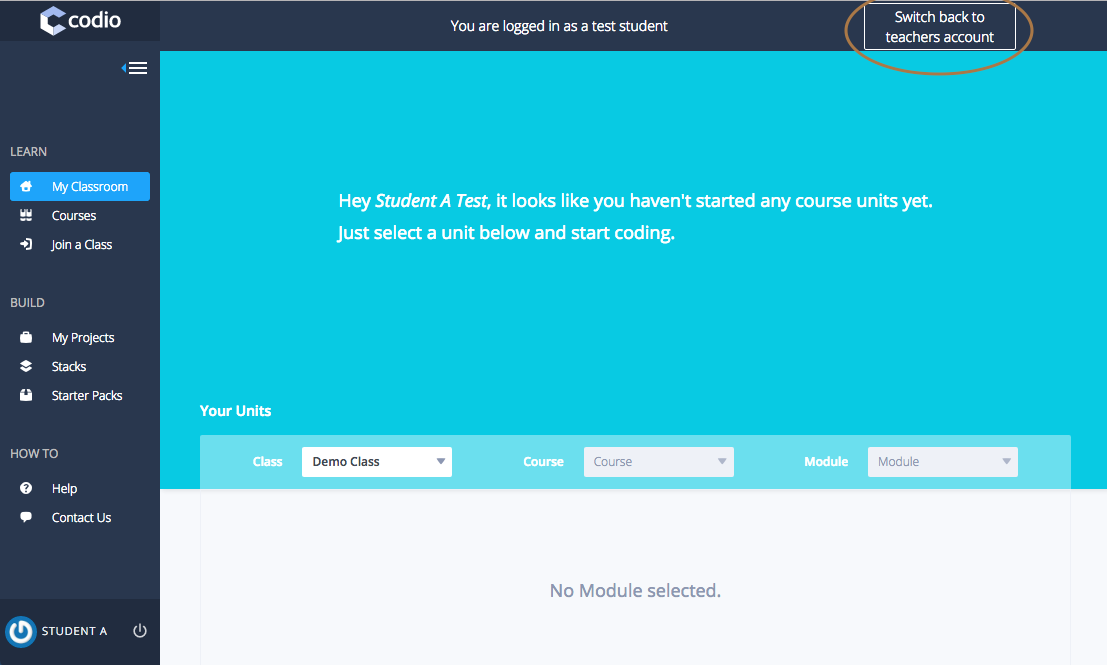
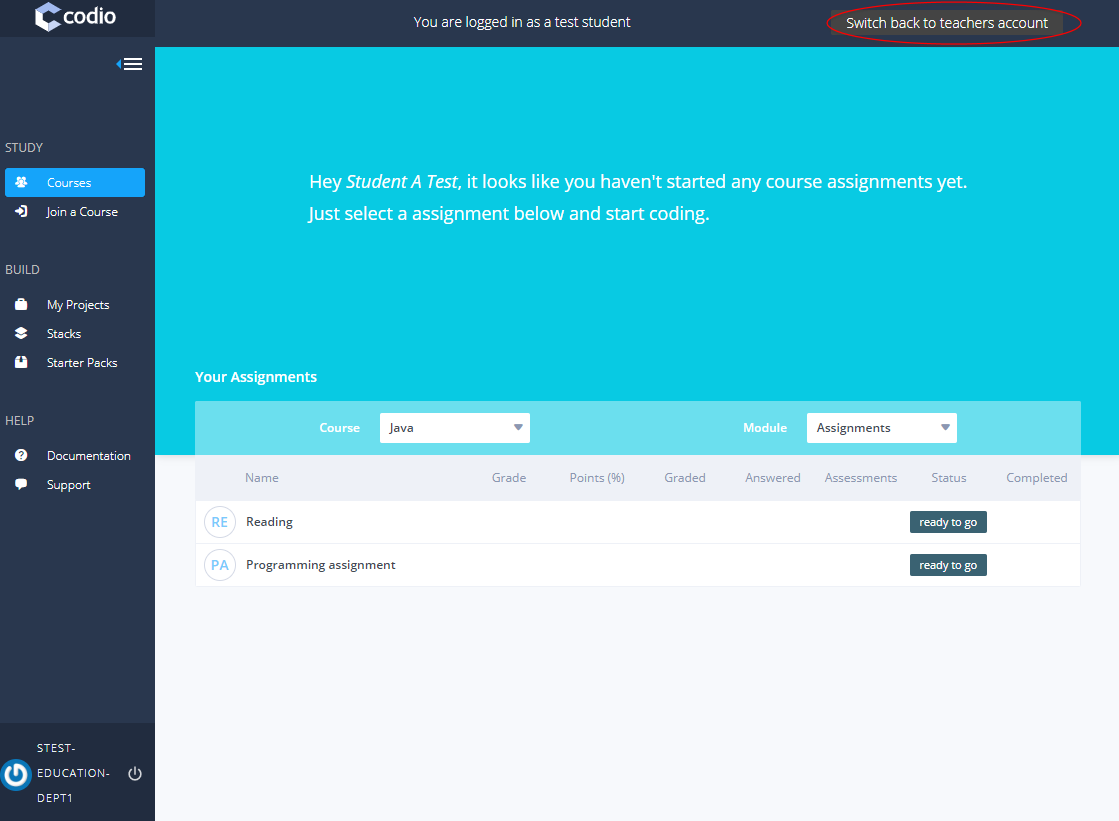
update to 6.5

diff --git a/.guides/content/Inviting-real-students-9e07.md b/.guides/content/Inviting-real-students-9e07.md
@@ -1,17 +1,17 @@
-Here we explain how to add an existing student to a class or create new students and add them to the class.
+Here we explain how to add an existing student to a course or create new students and add them to the course.
 
 If you just want to test the student experience, then we recommend you read the previous page as it is far easier and quicker. 
 
-## The class invite URL
-The class invite url is a url that you can pass to students for joining a class and signing up if not already signed up.
+## The course invite URL
+The course invite url is a url that you can pass to students for joining a course and signing up if not already signed up.
 
-- Select the class.
+- Select the course.
 - Select the **Admin** tab. 
-- Look for **Class Invite URL** and copy the url to the clipboard.
+- Look for **Course Invite URL** and copy the url to the clipboard.
 - You can now use this url directly (read below), send it out to people via email or put it in a web page.
 
 ## LMS Features
-If you are using an LMS platform for real classes, then we suggest you try out the LMS features later, not while onboarding with Codio. You will find an LMS section later in this guide.
+If you are using an LMS platform for real courses, then we suggest you try out the LMS features later, not while onboarding with Codio. You will find an LMS section later in this guide.
 
 ## Trying out real student accounts
 We would not recommend you do this at this stage. If you really want to, then please be aware of the following.
@@ -19,17 +19,17 @@ We would not recommend you do this at this stage. If you really want to, then pl
 - You cannot be logged in as more than one Codio user in a browser. The last login will prevail.
 - You can work around this restriction by opening an incognito/private window or open a different browser type.
 - Go to `codio.com` and make sure you are not signed in as a user. If you are then sign out.
-- Paste in the class invite url you copied to the clipboard earlier.
-- If you want to add an existing student to the class then supply that student's details ...
+- Paste in the course invite url you copied to the clipboard earlier.
+- If you want to add an existing student to the course then supply that student's details ...
 - ... or if you want to create a new student then supply a new email address using the email address approach described below.
 
 
 ## Signed in as a student
-Once you are signed in as a student, you should see a screen like the one below. If this student is a member of more than one class, you may need to change the **Class** dropdown.
+Once you are signed in as a student, you should see a screen like the one below. If this student is a member of more than one course, you may need to change the **course** dropdown.
 
 ![](.guides/img/joined-class.png)
 
 ## Check the students
-Once you have added students to the class, you should check your faculty/teacher classroom view. Return to the class screen and reload the browser page. If you click on the Students tab, you should see the test students successfully added to the class.
+Once you have added students to the course, you should check your faculty/teacher course view. Return to the course screen and reload the browser page. If you click on the Students tab, you should see the test students successfully added to the course.
 
 ![](.guides/img/students-unit.png)

diff --git a/.guides/content/Assigning-an-Assessment-1e61.md b/.guides/content/Assigning-an-Assessment-1e61.md
@@ -1,0 +1,51 @@
+ We are now ready to assign some content to the course. 
+ 
+## An Assessment
+In Codio, a teaching assessment is a project that has been assigned to a course. The scope of an assessment is entirely up to you but it could be a project assignment that a course works on. It could also be some tutorial content built using Guides. We generally recommend that it relates reasonably closely to a lesson or two. But if you prefer and it suits your structure better then you can assign as much or as little content to a Unit as you like.
+ 
+ There are two ways you can assign an assessment to a course.
+ 
+### Assign a project
+The simplest and quickest thing you can do is to assign one of your projects to a course. Once assigned, we refer to it as an assessment but the assessment's source is simply a project.
+
+- With the course selected, click on the Assessment tab at the top of the page. The list will be empty at this point.
+- Now click the **+** button in the top left.
+- Select **Add project as unit**
+- Select the project we have been working on
+- At this point you can start the assignment process, which take just a second or two
+
+![](.guides/img/add-unit-project.png)
+
+At this point, we take a snapshot of your source project, ready for the students to clone when they start the Unit. Any changes you make to the source project will not be reflected automatically in the student Unit.
+
+Once assigned to the course, each student will be able to access the Unit from their dashboard. Go to (or open up) your student in another browser window and refresh the page. Make sure you have the correct course selected form the dropdown. You will now see the Unit in the list. If you don't, make sure the Course dropdown has 'Ad Hoc Projects' selected.  
+
+### Pinning a Unit
+One very useful feature is to 'pin' the Unit. This allows the faculty member to pin the Unit to the top of the students' dashboards so it is easy to find.
+
+If you have just assigned the new Unit then you will see your new project as the only project in the list below. To the right of the list item is an icon with three blue dots. Click on this and then select the 'Pin Unit' option. 
+
+![](.guides/img/pin-unit.png)
+
+Now return to the student and reload the page. You will see the unit pinned in the top bar.
+
+### Assigning a Course Module
+Courses are a great way to assign multiple Units to a course in one go. For this to be relevant you first need to have your content organized as a course. 
+
+We will not attempt to cover course creation here but just show you how to assign existing course materials to the course. Please look for the 'Course creation' page within this Guide for more details.
+
+Please follow these steps.
+
+- From your Codio dashboard, select the course
+- Click the '+' button in the top left
+- Select 'Add Module'
+- You will now see a course browser. If not already selected, select the 'Recommended' tab
+- Select the course 'Introduction to programming'
+- Select one of the course modules
+- Press the select button
+
+You will see how all of the Units have now been assigned to the course.
+
+
+
+

diff --git a/.guides/content/Working-with-test-students-727e.md b/.guides/content/Working-with-test-students-727e.md
@@ -1,24 +1,24 @@
 You can work with special test students at any time. Codio creates three special test student accounts that allows you to switch between a teacher view and a student view without the hassle of creating test accounts yourself and having to repeatedly log in and out.
 
-- Select your Codio class.
+- Select your Codio course.
 - Click on the **Students** tab near the top of the page.
 - Now click the large blue **+** button.
 
 ![](.guides/img/add-test-student.png)
 
 - Click on the **Add test students** button. 
-- You will now see all three test students (unless you removed any test students) added to your class.
+- You will now see all three test students (unless you removed any test students) added to your course.
 
 ![](.guides/img/added-test-students.png)
 
 ### Logging in as a test student
 As soon as you have added the test students, you are able to log in as one of the test students by pressing the **Login as** button. Please note that this is only available for the special test student accounts.
 
-For these special accounts, you do not need to actually login with a user name and password. Instead, you are taken directly to the **My Classroom** dashboard. 
+For these special accounts, you do not need to actually login with a user name and password. Instead, you are taken directly to the **Courses** dashboard. 
 
 ![](.guides/img/test-student-login.png)
 
-Initially, this screen will not have any data. Once you start assigning Units (coming soon) to your class, you will see information appearing here.
+Initially, this screen will not have any data. Once you start assigning Units (coming soon) to your course, you will see information appearing here.
 
 Note the bar at the top of the screen, letting you know that you are logged in as a test student.
 

diff --git a/.guides/content/Settings--preferences---permissions-93f3.md b/.guides/content/Settings--preferences---permissions-93f3.md
@@ -1,7 +1,7 @@
 There are a variety of settings that you can make to control your the IDE behavior and appearances.
 
 ## Project settings
-The project settings can be found in the Project->Settings menu. [Click here for full documentation](https://codio.com/docs/ide/customization/project-settings/).
+The project settings can be found in the Project->Settings menu. [Click here for full documentation](https://docs.codio.com/ide/settings/#project-settings).
 
 ![](.guides/img/project-settings.png)
 
@@ -24,7 +24,7 @@ You can allow specific Codio users to access your projects, even if the project 
 ![](.guides/img/project-permissions.png)
 
 ## Preferences
-Preferences refer to general IDE settings. There are a very large number of settings available and these are best viewed by accessing the settings themselves. [Additional documentation is available here](https://codio.com/docs/ide/customization/codio-prefs/).
+Preferences refer to general IDE settings. There are a very large number of settings available and these are best viewed by accessing the settings themselves. [Additional documentation is available here](https://docs.codio.com/ide/settings/#user-preferences).
 
 ![](.guides/img/preferences.png)
 

diff --git a/.guides/content/Course-configuration-845f.md b/.guides/content/Course-configuration-845f.md
@@ -1,0 +1,22 @@
+
+Creating new Courses are managed from the Courses section of the dashboard.
+
+## Creating new courses
+You can create a new course by pressing the '+' button at the top of the page. Give the class a meaningful name and press create.
+
+Create a course called 'My First Course'.
+
+![](.guides/img/new-class.png)
+
+## Adding teaching assistants
+You can add additional teaching assistants for a selected course either by inviting them in by sending email invitation or if they are already members of the organisation, locating them and adding them to the course.
+
+- Select the Admin tab near the top of the page
+- Locate the Teachers area and press the Edit link then the Add Teacher link
+- If they are already members in the organisation, find them in the 'Add Teacher from Organization' area and press the Done button once you are ready to add them
+- If they are not existing teachers in the organisation (or they may be TA's and a student in another course), you can send them an email invitation to join the course as a teacher
+
+![](.guides/img/add-class-teacher.png)
+
+
+

diff --git a/.guides/content/GUI-based-applications-6096.md b/.guides/content/GUI-based-applications-6096.md
@@ -7,7 +7,7 @@ Applications can either be a 3rd party application you install in whatever way i
 If you are writing your own applications then you can use the normal frameworks that you would if developing on your normal desktop. Tkinter, Qt, Swing, JavaFX and other frameworks will all work fine. Please be aware that you will need to install these frameworks on your box yourself from the command line. 
 
 ### Documentation and Demo project
-[Full documentation can be found here](https://codio.com/docs/ide/boxes/installsw/gui/). 
+[Full documentation can be found here](https://docs.codio.com/ide/boxes/#gui-based-output). 
 
 A sample GUI example project, **Demo GUI Output** can be found in My Projects in the Codio Dashboard. If, for any reason, you do not see this in your My Projects list, then [click here](https://codio.com/home/starter-packs/d9c00215-ec2a-46e7-b64e-85fab45b0872/) to create this from a Codio Starter Pack. Click the **Use Pack** button to create a new project from it.
 

diff --git a/.guides/content/Basics-1acc.md b/.guides/content/Basics-1acc.md
@@ -10,7 +10,7 @@ Now open up the Guides editor from the Tools->Guides->Edit menu.
 ### Demo project and documentation
 The **Demo Guides and Assessments** project in My Projects contains a section on the full range of text formatting capabilities within guides as well as more advanced assessment examples. It is not necessary to look at this now but you may want to later. If, for any reason, you do not see this in your My Projects list, then [click here](https://codio.com/home/starter-packs/cc68d38b-b0ea-4825-9814-46a3594c2b11/) to create this from a Codio Starter Pack. Click the **Use Pack** button to create a new project from it.
 
-To get full details about Guides, please [refer to the documentation](https://codio.com/docs/content/authoring/).
+To get full details about Guides, please [refer to the documentation](https://docs.codio.com/courses/authoring/).
 
 ## Reference
 Below is a quick reference of the key Guides editing features for future reference.

diff --git a/.guides/content/Visual-debugger-f2ac.md b/.guides/content/Visual-debugger-f2ac.md
@@ -18,7 +18,7 @@ The Codio debugger supports the following languages ...
 
 
 ### Documentation and Demo project
-Please refer to the [Codio documentation](https://codio.com/docs/ide/features/debugging/) for a full explanation of how to use the debugger. 
+Please refer to the [Codio documentation](https://docs.codio.com/ide/features/#debugging) for a full explanation of how to use the debugger. 
 
 You will find a sample project **Demo Codio Debugger** already included in My Projects with examples for the currently supported set of languages. If, for any reason, you do not see this in your My Projects list, then [click here](https://codio.com/home/starter-packs/b83690d5-6ff5-4f86-970a-768292c70aec/) to create this from a Codio Starter Pack. Click the **Use Pack** button to create a new project from it.
 

diff --git a/.guides/content/Custom-menu-items-5341.md b/.guides/content/Custom-menu-items-5341.md
@@ -22,4 +22,4 @@ If you close the `.codio` file, you will see `Run it!!!` in the menu. You can no
 ### Previews
 The `preview` section is where you put url references that open in a 'preview' window. You specify a url and it will be served up.
 
-We will not spend time here now, but feel free to find out more about the possible settings and tokens. [Click here for the documentation](https://codio.com/docs/ide/features/inline-preview/).
+We will not spend time here now, but feel free to find out more about the possible settings and tokens. [Click here for the documentation](https://docs.codio.com/ide/features/#preview).

diff --git a/.guides/content/Projects-f1c7.md b/.guides/content/Projects-f1c7.md
@@ -21,7 +21,7 @@ Because all projects live in the Cloud, sharing projects is easy and instant. An
 ### Assessment configuration
 Codio has an extremely powerful set of auto-graded assessment capabilities (multiple choice and auto-graded code tests). Codio Guides provides everything you need to scaffold these.
 
-### Course unit creation
+### Course assessment creation
 Later, we will look at how you can publish units of content that can contain simple projects, assessments or rich tutorial content. All of these are managed within a projects.
 
 ### Tutorial authoring

diff --git a/.guides/content/Assessments-6d54.md b/.guides/content/Assessments-6d54.md
@@ -7,7 +7,7 @@ If, for any reason, you do not see this in your My Projects list, then [click he
 Please [watch this video](https://vimeo.com/200593173) first.
 
 ## Documentation
-[Click here](https://codio.com/docs/content/authoring/assessments/) to read the assessments documentation.
+[Click here](https://docs.codio.com/courses/assessments/) to read the assessments documentation.
 
 ### Creating new assessments
 All assessments are created form the dropdown menu in the Guides toolbar with the tool chesspiece icon.
